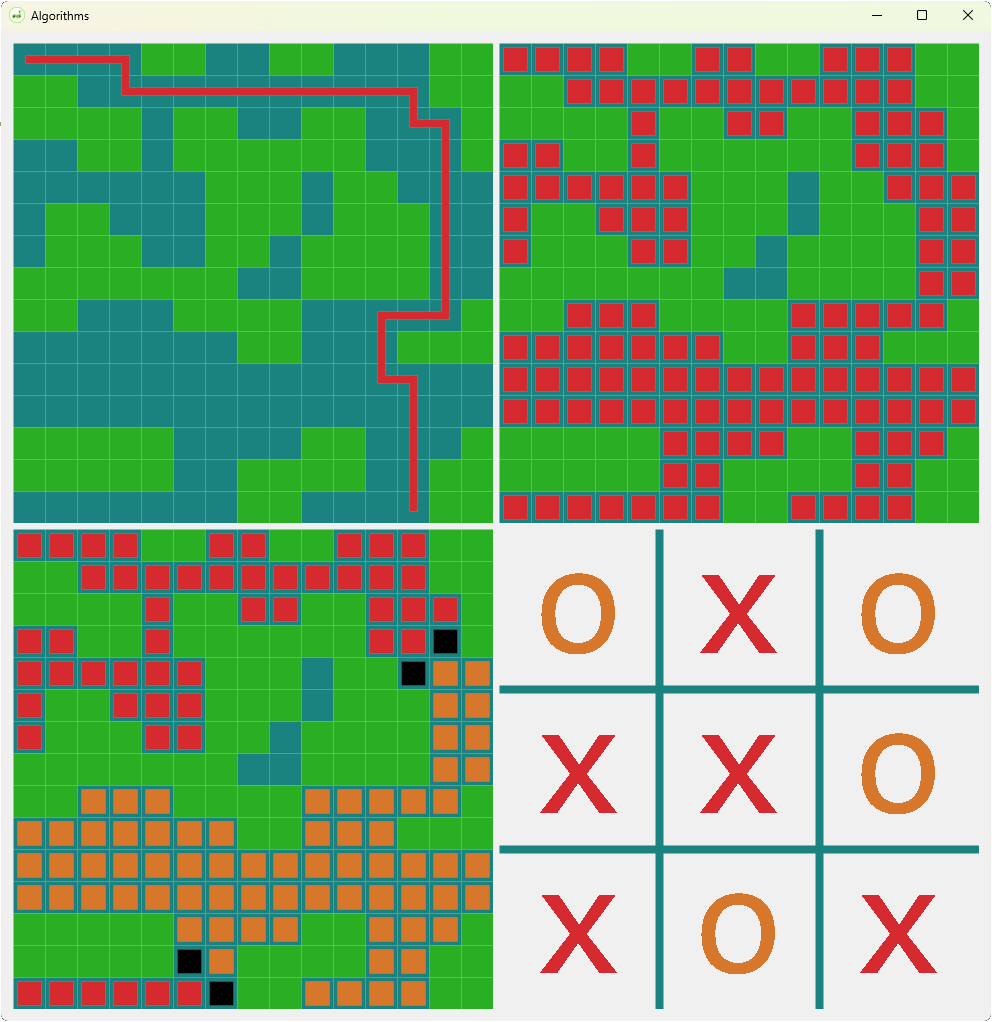
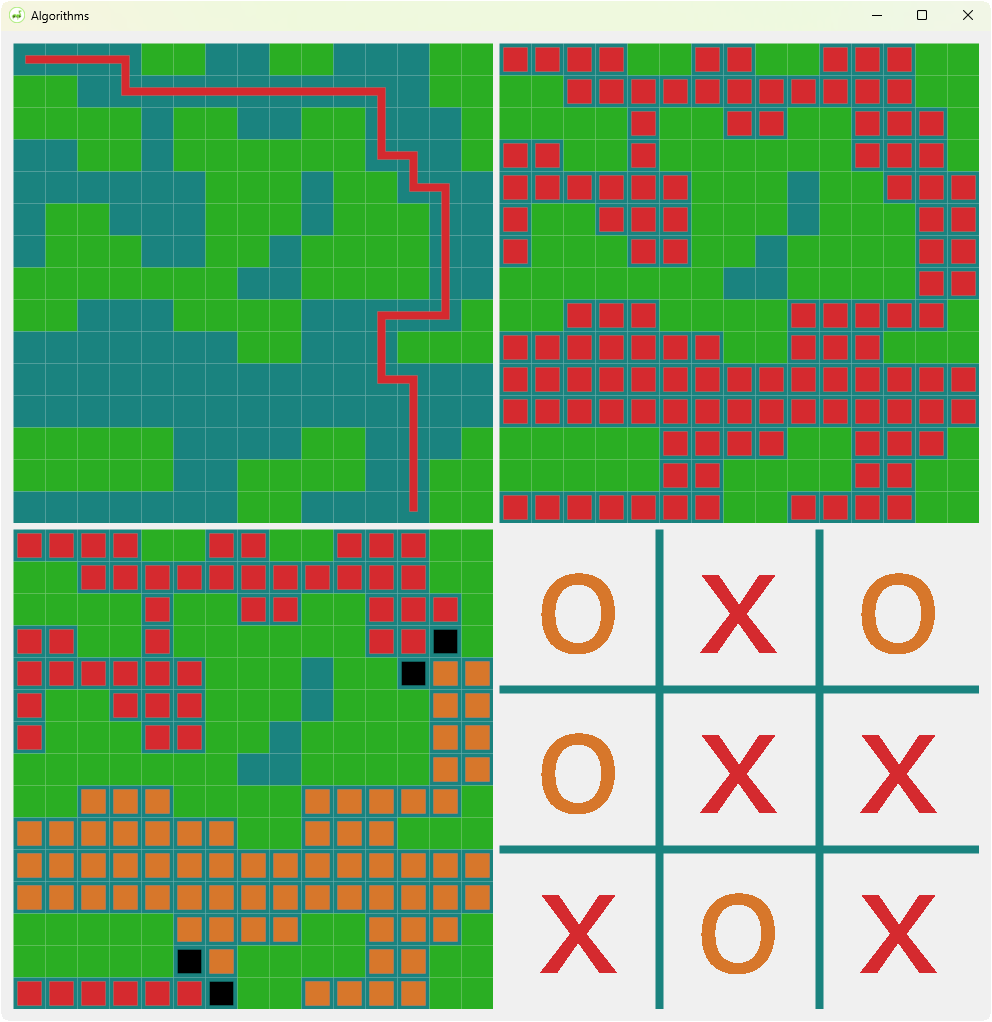
Improved A*

Changed region(s): [[0.5312, 0.6977, 0.625, 0.819], [0.8438, 0.6977, 0.9375, 0.819], [0.375, 0.0607, 0.4688, 0.2123]]

diff --git a/tests/PathFinding/AStarTests.cs b/tests/PathFinding/AStarTests.cs
@@ -84,5 +84,45 @@ namespace tests.PathFinding
             path.Last().X.Should().Be(3);
             path.Last().Y.Should().Be(0);
         }
+
+        [Fact]
+        public void Given_AStar_When_SearchingWithCustomEdgeWeights_Then_CorrectPathFound()
+        {
+            var map = OceanNavigator.FromString(new string[]
+            {
+                "    ##  ##   ##",
+                "##           ##",
+                "#### ##  ##   #",
+                "  ## ######   #",
+                "      ### ##   ",
+                " ##   ### ###  ",
+                " ###  ## ####  ",
+                "#######  ####  ",
+                "##   ####     #",
+                "       ##   ###",
+                "               ",
+                "               ",
+                "#####    ##   #",
+                "#####  ####  ##",
+                "       ##    ##"
+            });
+
+            var pf = new AStar(map);
+
+            pf.GetDistance = (board, source, dest) =>
+            {
+                // Prefer paths closer to the center
+                return 1000 + dest.ManhattanDistanceTo(board.Width / 2, board.Height / 2);
+            };
+
+            var start = new Location(0, 0);
+            var end = new Location(12, 14);
+
+            var path = pf.FindPath(start, end);
+
+            path.Count.Should().Be(31);
+
+            path.Should().Contain(p => p.X == 11 && p.Y == 3);
+        }
     }
 }

diff --git a/algorithms/MapRepresentation/Location.cs b/algorithms/MapRepresentation/Location.cs
@@ -1,4 +1,6 @@
-namespace algorithms.MapRepresentation
+using System;
+
+namespace algorithms.MapRepresentation
 {
     public class Location
     {
@@ -10,6 +12,26 @@
         {
             X = x;
             Y = y;
+        }
+
+        public double EuclideanDistanceTo(int x, int y)
+        {
+            return Math.Sqrt((x - X) * (x - X) + (y - Y) * (y - Y));
+        }
+
+        public int ManhattanDistanceTo(int x, int y)
+        {
+            return Math.Abs(x - X) + Math.Abs(y - Y);
+        }
+
+        public double EuclideanDistanceTo(Location other)
+        {
+            return EuclideanDistanceTo(other.X, other.Y);
+        }
+
+        public int ManhattanDistanceTo(Location other)
+        {
+            return ManhattanDistanceTo(other.X, other.Y);
         }
     }
 }

diff --git a/algorithms/PathFinding/AStar.cs b/algorithms/PathFinding/AStar.cs
@@ -9,6 +9,8 @@ namespace algorithms.PathFinding
         private int _width;
         private int _height;
 
+        public GetDistanceDelegate GetDistance { get; set; }
+
         public AStar(IBoard map)
         {
             _map = map;
@@ -76,7 +78,8 @@ namespace algorithms.PathFinding
                     }
 
                     // The distance from start to a neighbor
-                    var tentative_gScore = gScore[current.X, current.Y] + 1;
+                    var edge_weight = GetDistance?.Invoke(_map, current, neighbor) ?? 1;
+                    var tentative_gScore = gScore[current.X, current.Y] + edge_weight;
 
                     // Discover a new node
                     if (!openSetFast[neighbor.X, neighbor.Y])

diff --git a/visualizations/Main.cs b/visualizations/Main.cs
@@ -49,6 +49,12 @@ namespace algos
 
             var pf = new AStar(map);
 
+            pf.GetDistance = (board, source, dest) =>
+            {
+                // Prefer paths closer to the center by making it slightly more costly to move to tiles further away from the center. We'll still find the shortest possible path
+                return 1000 + dest.ManhattanDistanceTo(board.Width / 2, board.Height / 2);
+            };
+
             var path = pf.FindPath(new Location(0, 0), new Location(12, 14));
 
             var mv = new OceanNavigatorVisualizer(map);

diff --git a/algorithms/PathFinding/GetDistanceDelegate.cs b/algorithms/PathFinding/GetDistanceDelegate.cs
@@ -1,0 +1,6 @@
+using algorithms.MapRepresentation;
+
+namespace algorithms.PathFinding
+{
+    public delegate int GetDistanceDelegate(IBoard board, Location source, Location destination);
+}
